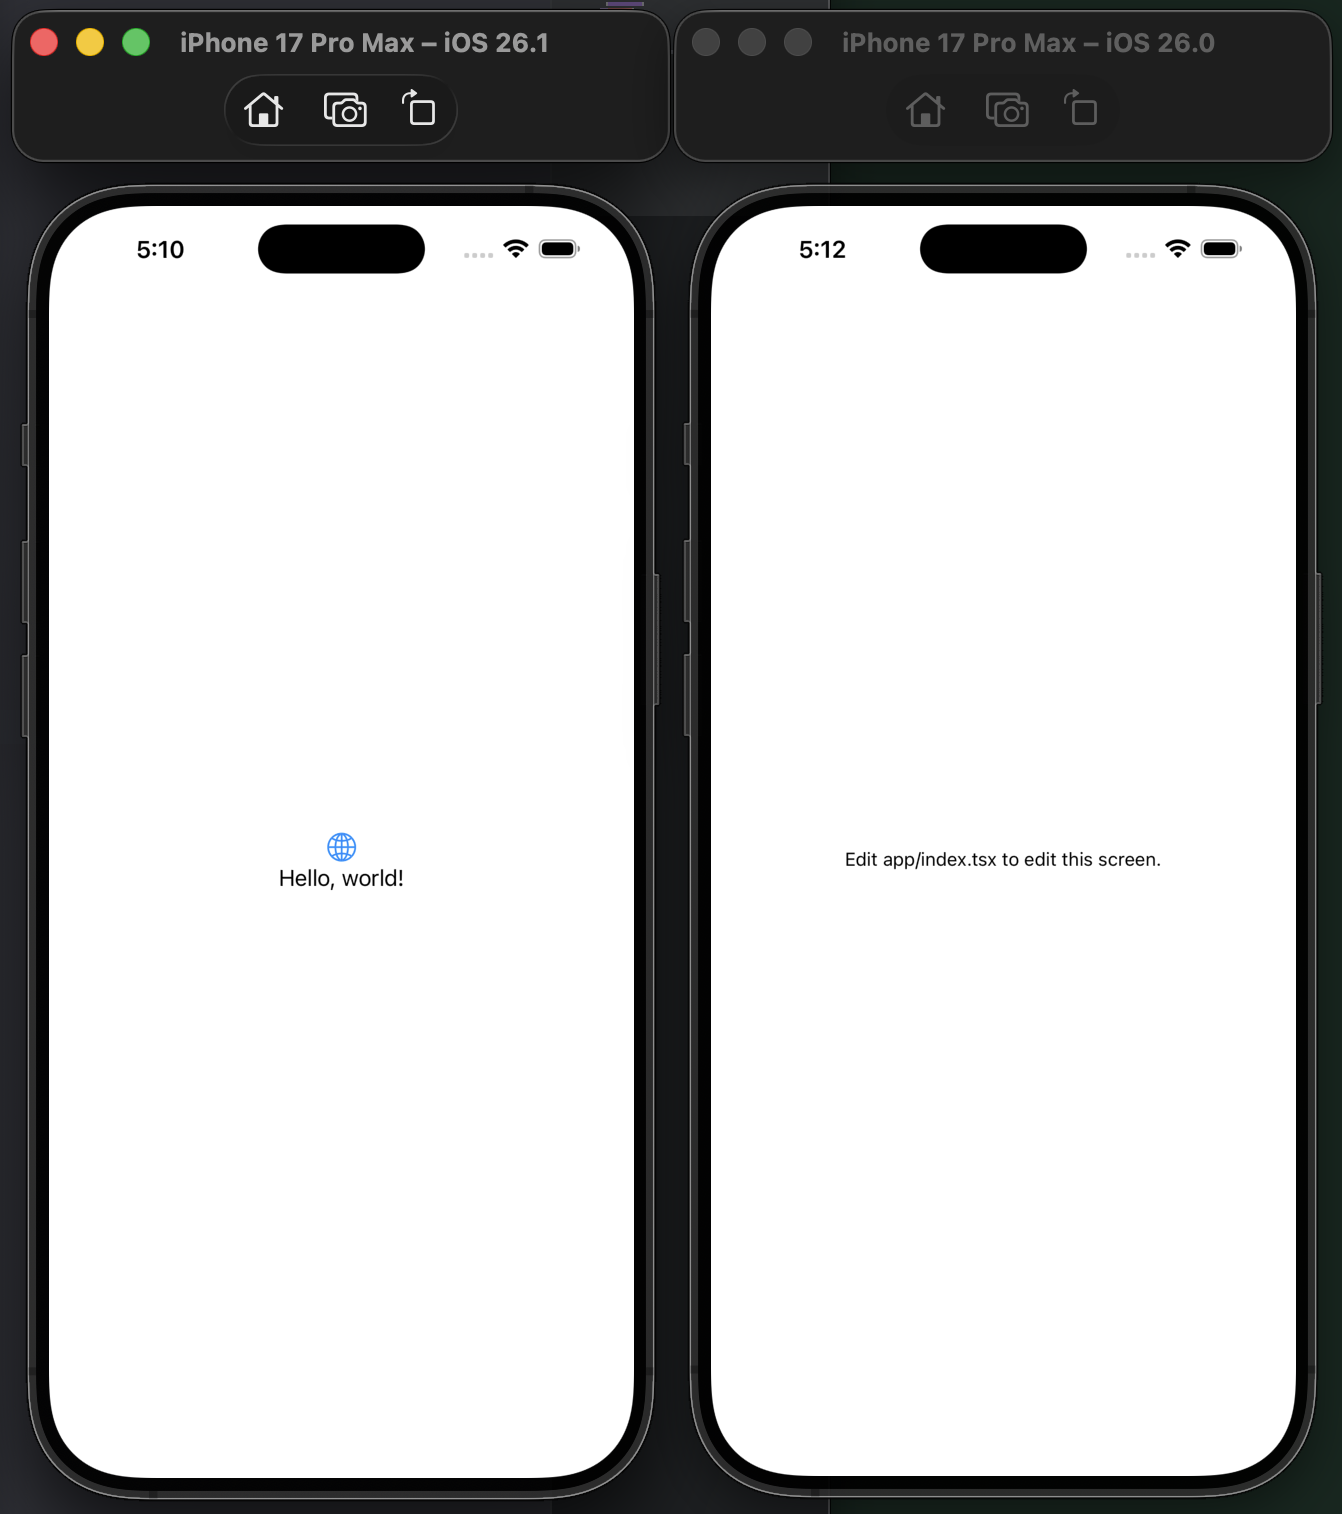
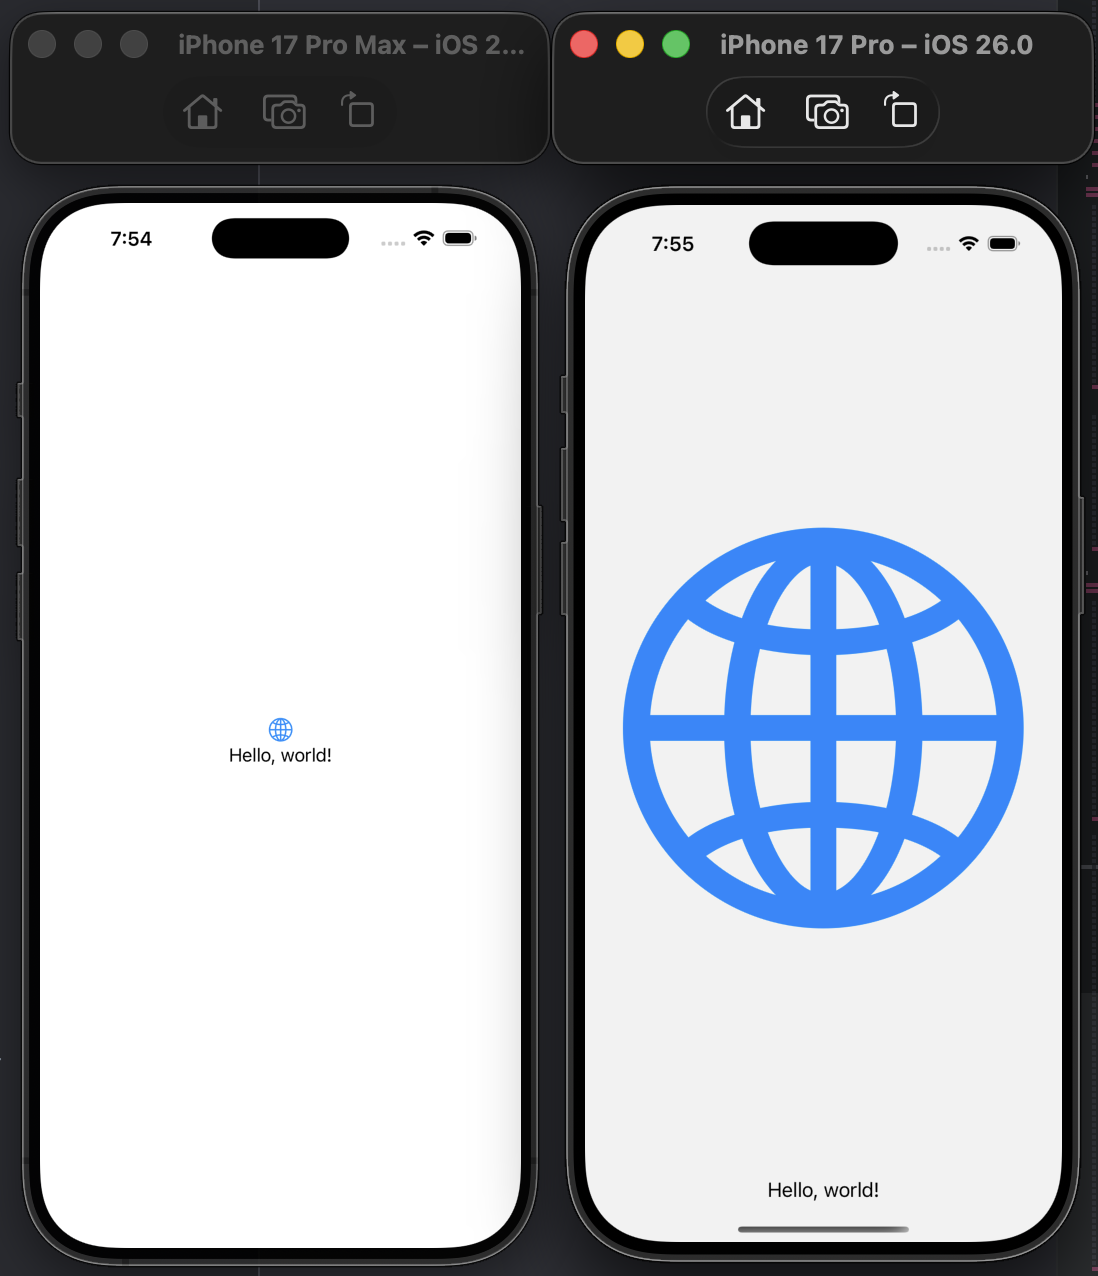
add symbol

diff --git a/app/index.tsx b/app/index.tsx
@@ -1,11 +1,22 @@
 import { Host, Text, VStack } from "@expo/ui/swift-ui";
+import { SymbolView } from "expo-symbols";
+import { StyleSheet } from "react-native";
 
 export default function ContentView() {
   return (
-    <Host style={{ flex: 1 }}>
+    <Host style={styles.container}>
       <VStack>
+        <SymbolView name="globe" />
         <Text>Hello, world!</Text>
       </VStack>
     </Host>
   );
 }
+
+const styles = StyleSheet.create({
+  container: {
+    flex: 1,
+    alignItems: "center",
+    justifyContent: "center",
+  },
+});
